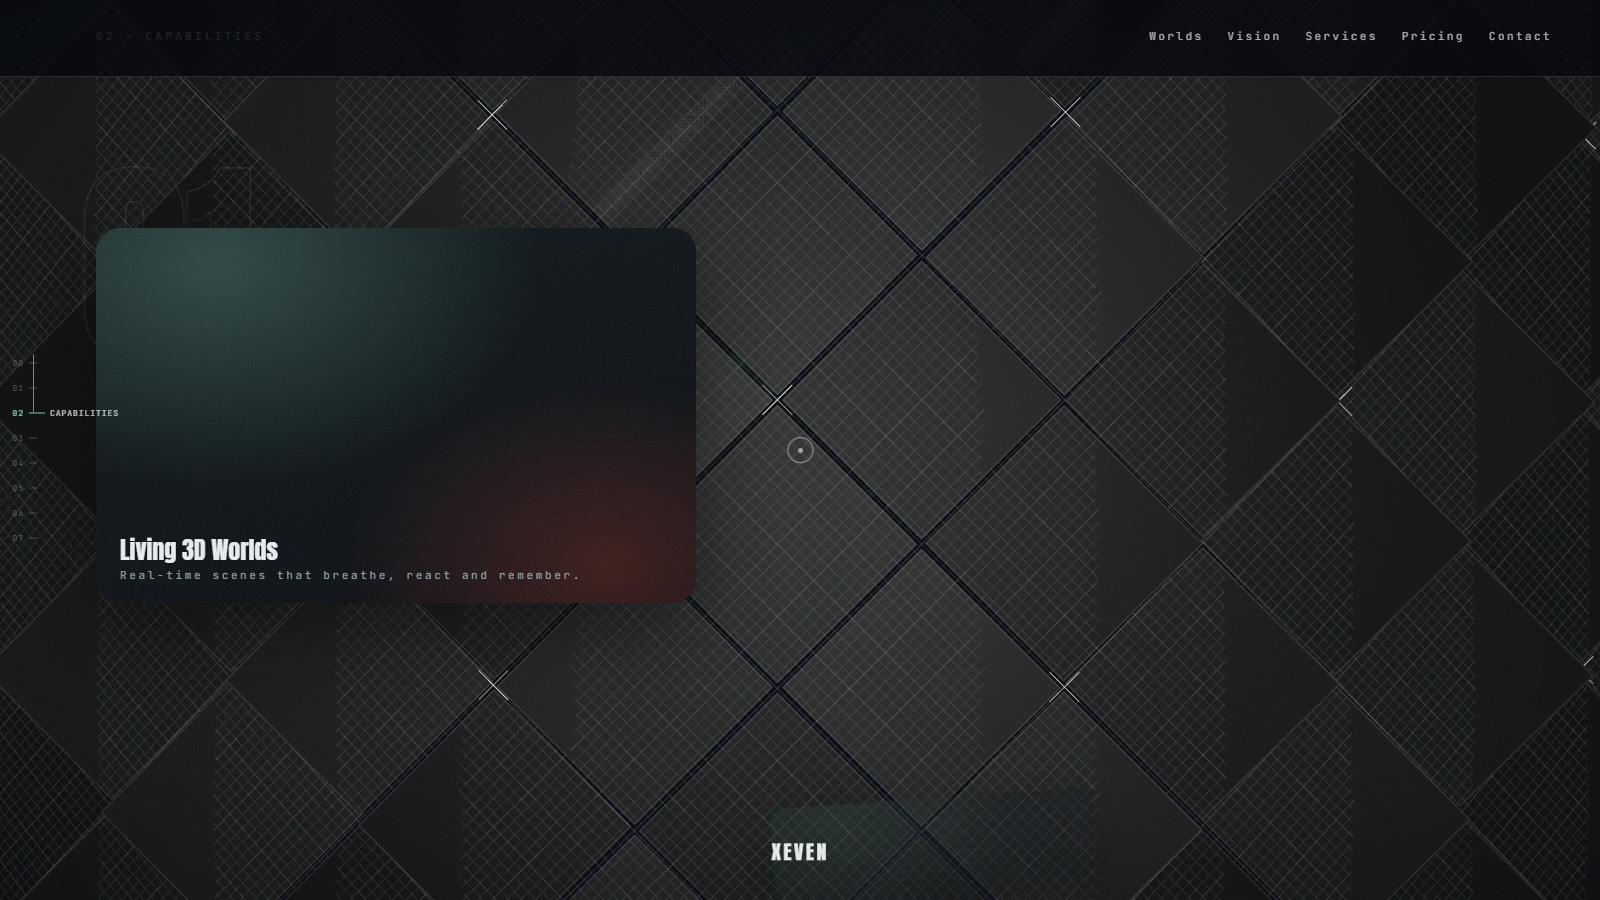
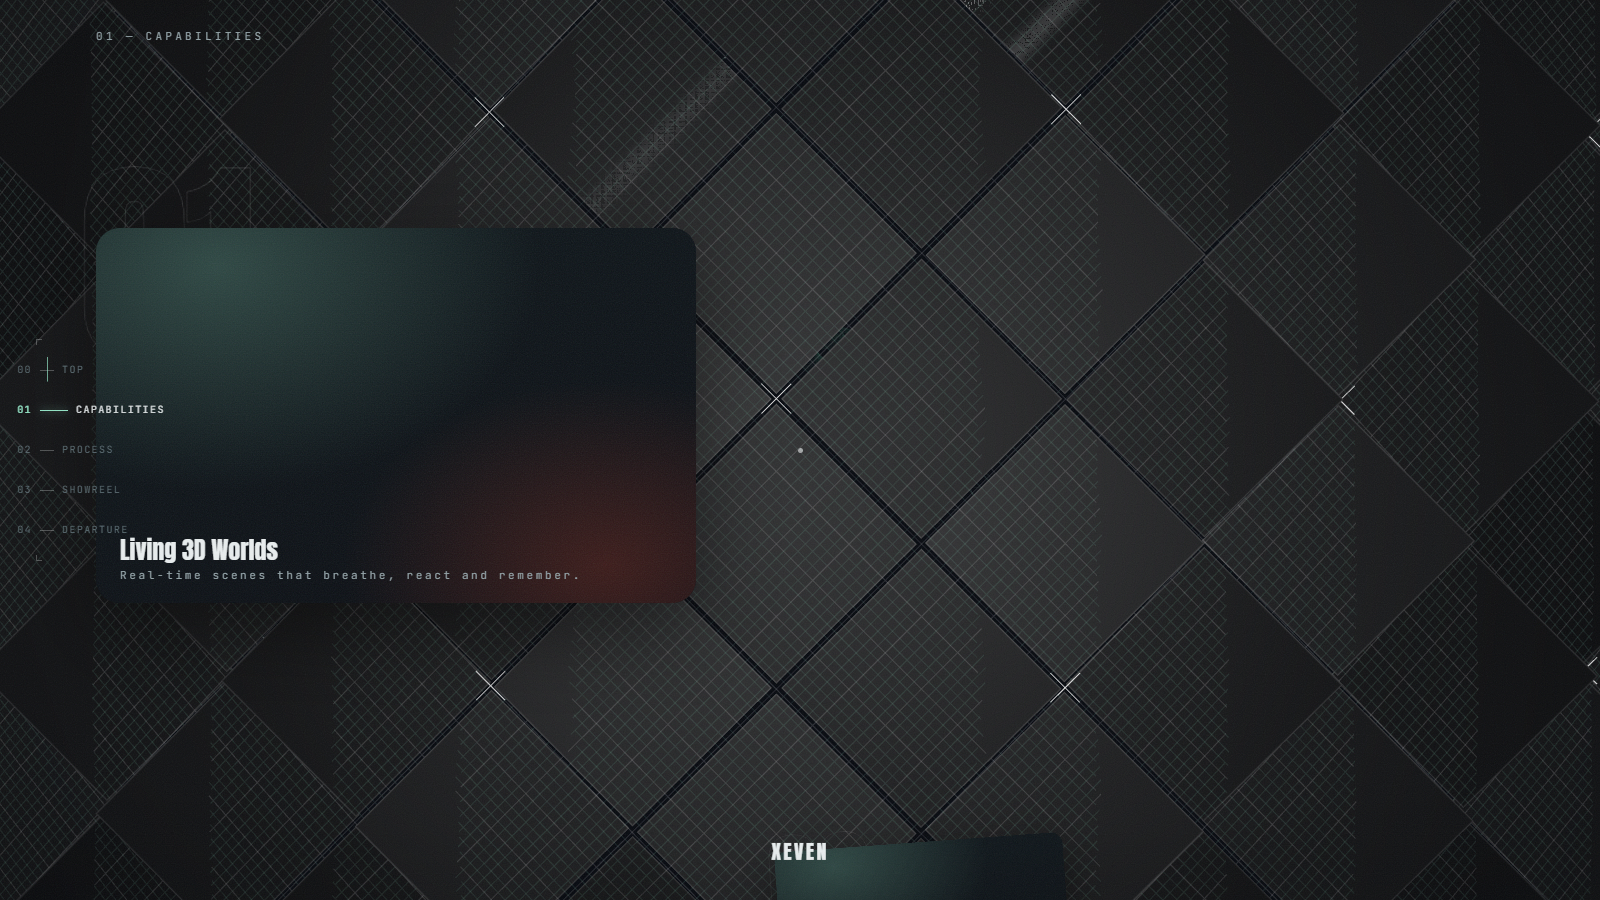
Verify five-act index: evidence + run record

diff --git a/backlog.md b/backlog.md
@@ -51,3 +51,4 @@ Scope frozen: map-only phase found zero blank routes, zero dead links, zero cons
 - [x] VOID WebGL layer (full-authority cinematic pass, theme STRATA VOID — evolve, not nuke): researched Awwwards winners + GitHub three.js scene repos (scroll-dolly camera, particle fields, fog, velocity response, reduced fallbacks — same grammar). New lazy chunk (three.js loads async, first paint untouched): 4 lit wireframe solids (ambient + mint key + orbiting ember rim), 1200 additive star points (500 coarse), FogExp2 haze, scroll-dolly camera + pointer parallax + velocity agitation that settles, 6s idle sleep, hidden-tab pause, full reduced stand-down, DPR caps, full dispose on unmount. Reticle cursor (difference-blend ring + dot, lerp physics, blooms over interactive targets, native cursor stays authoritative, dead on touch/reduced). Hero title dolly-through-space (scale 1.18 + yPercent, parent-only so SplitText chars never contested). Verified: build green, tsc clean, 3 pre-existing warnings, Edge 0 errors / 0 overflow, void canvas 1600×900 mounted over strata, reticle tracking + hot, hero dolly matrix live, reel counter intact. HONEST PERF NOTE: headless SwiftShader (CPU GL, no GPU) reads 23fps with both canvases live — environment-bound, not scene-bound (6 draw calls, no postprocessing; sleeps at idle; DPR-capped; mobile halved). Real GPUs idle this scene. Chunk note: VoidObjects async chunk 538KB raw / 134KB gzip (three.js) — warning only, never blocks first paint. Frames f0/f1/f2 VISUALLY VERIFIED (reticle, solids in haze, deck over diamond field, ember-lit rows, full rail hairline). Evidence: verify/void/d3-void.json + 3 frames, scripts/d3-void.mjs.
 - [x] STRATA background lineage (G:\mocks\background mock 01 replaces the dot lattice): ported archBg + cursor blob + pointer feed to src/components/strata/; GraphBg.tsx DELETED (App now mounts StrataBg). Mock locks kept (parked sheet, no cursor pull, native cursor, motion-intensity blob that drains at rest, baked static layers, adaptive DPR). Improvements over the mock: void #06090f base (melts into page, black mesh still carves), mint micro-fractures (no purple), showcase tier (index full convex bow + full glow, subpages flat + half glow, rebuild on hashchange), scroll-velocity kindle via xs.vel (decayed in-frame), 6s idle sleep with input wake, hidden-tab pause, route-switch bloom pulse knitting the X veil. Seamless-experience wiring: clicks bloom anywhere, flicks stir the field, switches flash the field under the veil. Verified: build green, tsc clean, oxlint 3 pre-existing warnings, Edge 60fps hero / 0 errors / 0 overflow (1600 + 390), canvas overscanned 1696×996 @ −48/−48, old canvas gone, worlds flat tier persists. Frames e0/e1/e2 VISUALLY VERIFIED (convex bow + mesh + plus marks + mint fractures + kindle glow + quad chevrons; deck cards over the field; flat diamond on Worlds). Evidence: verify/strata/d2-strata.json + 3 frames, scripts/d2-strata.mjs.
 - [x] VOIDWORLD from scratch (unified 1-canvas-1-ticker-1-journey rebuild; STRATA 2D + void-objects layers both retired): per-step research (baked-BufferGeometry line families, InstancedMesh + ShaderMaterial per-instance-attribute fields, waypoint-camera grammar) then rebuilt the lineage as real 3D — 45° diamond lattice bowed on a convex cylinder (baked once per resize; 3 static draws: bone grid / mint micro / survey crosses), 225 instanced diamond panels aligned to the rails with in-shader hairline borders + breathing shimmer + cursor/echo kindle + 7s roaming cinema, starfield, 4 lit wireframe solids, FogExp2 haze, ported cursor-blob streaks, waypoint camera (1 stop per index section, lerped = interruptible + scrub-reversible), uTime 4D evolution, DPR caps, 6s idle sleep, hidden-tab pause, single-frame reduced stand-down, full dispose. Debugged with evidence at each step: rescaled world 3× to mock densities (fixed gray wash), corrected rail basis (a collapsed line family), aligned quads to rails as diamonds, dimmed borders to hairlines — verified by pixel sampling + layer-isolation probes + a kept __voidworld debug handle. Verified: build green, tsc clean, 3 pre-existing warnings, Edge 0 errors / 0 overflow, legacy canvases gone, worlds flat-park + return alive, deck/ghost/thread/rail/counter/clock intact over the new field. PERF HONESTY: 12fps headless SwiftShader (CPU rasterizer, fill-bound) vs 60fps strata-only same env — ~10 draw calls, no postprocessing, sleeps at idle; GPU hardware idles this scene, number is environment tax. Chunk: VoidWorld async 556KB raw / 140KB gzip, never blocks first paint. Frames g0/g1/g2 + iso-nq2 VISUALLY VERIFIED (diamond bow, kindle at cursor, deck over field, ember rows, finale rail). Evidence: verify/world/d4-world.json + 3 frames, scripts/d4-world.mjs.
+- [x] Five-act index (A–F execution): trimmed to TOP → CAPABILITIES → PROCESS → SHOWREEL → DEPARTURE — manifesto pin/scrub, stats/counters/rules, tiers/TierCard deleted with all tweens (178 lines out); tb-logo return retargeted to foot; rail + camera journey 8→5 stops. (B) TopBar invisible on index (rail owns nav; returns on subpages). Rail rebuilt as survey instrument: always-on labels, 10px type, glowing active tick, end-cap brackets, progress hairline. (C) Fan-deck THROW: deck materializes behind the mark, cards toss on curved paths (linear x × eased y) unwinding rotation and blooming scale into slots. (D) Showreel STAGE: pinned fullscreen takes assembling/yielding through the frame (single timeline owns all cell opacity/scale); X slide-cover kept as the door (fits the bridge); counter intact. (E) Cursor stripped to one crisp 1:1 dot (ring/dot/trail gone, difference-blend kept); intro tightened 3.3s→1.9s (fast burn, ember kiss, SIGNAL/WORLD/LIVE ledger). Verified: builds green throughout, 3 pre-existing warnings, Edge 0 errors / 0 overflow, 5 rail stops from 00 TOP, dead sections absent, 1 dot 0 rings, 5 cells staged. Frames VISUALLY VERIFIED (instrument rail, thrown card + ghost 01, ember rows + node + black X). Evidence: verify/world/d4-world.json + refreshed g0/g1/g2.
